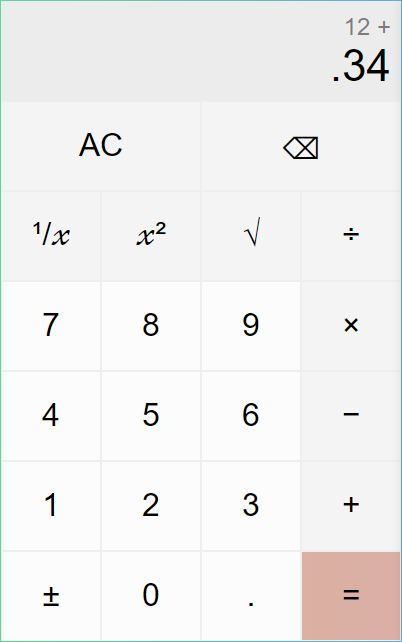
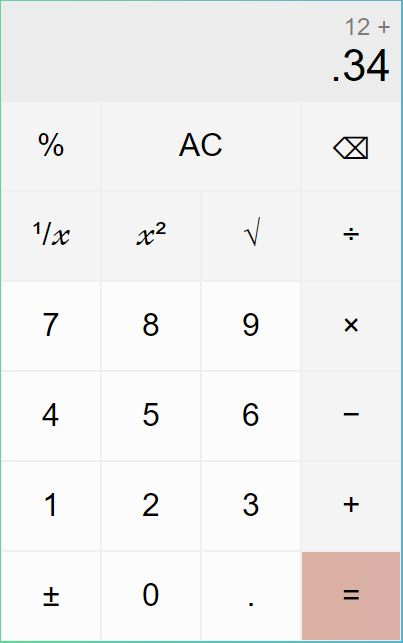
Improved compute logic, Added error handling for Overflow and NaN bugs, fixed decimal issue with One Input Function returned values, and added calculator % Feature to match Windows 10 Calculator.

diff --git a/app.js b/app.js
@@ -1,4 +1,4 @@
-  // 💯 ✌
+// 💯 ✌
 class Calculator {
   constructor(previousOperandTextElement, currentOperandTextElement) {
     this.previousOperandTextElement = previousOperandTextElement
@@ -32,7 +32,7 @@ class Calculator {
     let decimalDigits = stringNum.split('.')[1]
     let integerDisplay
 
-    isNaN(integerNum) ? integerDisplay = "." : integerDisplay = integerNum.toLocaleString('en', {
+    integerDisplay = integerNum.toLocaleString('en', {
       maximumFractionDigits: 0
     })
 
@@ -77,15 +77,16 @@ class Calculator {
     let computation
     let curr = parseFloat(this.currentOperand)
     let prev = parseFloat(this.previousOperand)
-    if (isNaN(curr)) return
 
-    switch (this.operator) { case `${this.operator}`:
-      computation = mathFunctions[this.operator](prev, curr); break; default: return; }
-
-    // Update variables
-    this.currentOperand = computation
-    this.previousOperand = ''
-    this.operator = undefined
+    if (typeof this.operator === 'undefined') return
+    computation = mathFunctions[this.operator](prev, curr);
+    if (computation === Infinity || isNaN(computation)) {
+      alert("Overflow or Logically Impossible Error.")
+      return this.clear()
+    }
+    // Update operands, operator, and pass compute value to display
+    this.clear()
+    this.appendNumber(computation)
   }
 }
 
@@ -112,7 +113,8 @@ mathFunctions = {
   '÷'(prev, curr) {return curr === 0 ? 0 : prev / curr},
   '−'(prev, curr) {return prev - curr},
   '+'(prev, curr) {return prev + curr},
-  '×'(prev, curr) {return prev * curr}
+  '×'(prev, curr) {return prev * curr},
+  '%'(prev, curr) {return prev * (curr / 100)}
 };
 
 // Initalize Event Listeners

diff --git a/index.html b/index.html
@@ -14,9 +14,10 @@
       <div data-previous-operand class="previous-operand">12 +</div>
       <div data-current-operand class="current-operand">.34</div>
     </div>
+    
+    <button data-operation class="supportingBtn" tabindex="1">&percnt;</button>
     <button data-all-clear class="span-two supportingBtn" tabindex="1">AC</button>
-    <button data-delete class="span-two supportingBtn" tabindex="1">⌫</button>
-
+    <button data-delete class="supportingBtn" tabindex="1">⌫</button>
     <button data-operation class="supportingBtn" tabindex="1">&sup1;/&xscr;</button>
     <button data-operation class="supportingBtn" tabindex="1">&xscr;&sup2; </button>
     <button data-operation class="supportingBtn" tabindex="1">&radic;</button>

diff --git a/README.md b/README.md
@@ -14,11 +14,13 @@ The point of this project was never to reinvent the wheel, rather to strengthen 
 
 ## Screenshot
 
-My Window's 10 Calculator
-![Example screenshot](https://github.com/MNGoldman/Windows10-Calculator/images/MyWindows10Calculator.JPG)
+### My Window's 10 Calculator
 
-The Window's 10 Calculator
-![Example screenshot](https://github.com/MNGoldman/Windows10-Calculator/images/RealWindows10Calculator.JPG)
+![Example screenshot](https://github.com/MNGoldman/Windows10-Calculator/blob/master/images/MyWindows10Calculator.JPG)
+
+### The Window's 10 Calculator
+
+![Example screenshot](https://github.com/MNGoldman/Windows10-Calculator/blob/master/images/RealWindows10Calculator.JPG)
 
 ## Technologies
 
